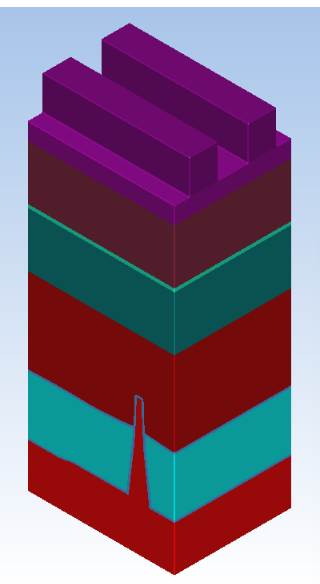
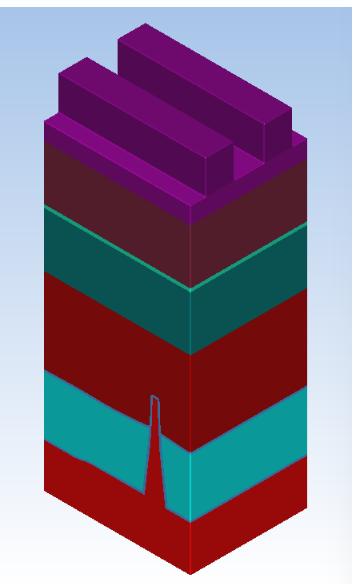
FinFET 3D 그림 좌우 여백 확대

diff --git a/finfet.html b/finfet.html
@@ -7,7 +7,7 @@
 <link rel="stylesheet" href="style.css">
 <style>
 .step{display:flex;gap:18px;align-items:flex-start}
-.step>img{flex:none;width:auto;height:auto;max-width:250px;max-height:400px;border-radius:8px;border:1px solid var(--border);background:#fff}
+.step>img{flex:none;width:auto;height:auto;max-width:270px;max-height:420px;border-radius:8px;border:1px solid var(--border);background:#fff}
 .step>div{flex:1;min-width:0}
 .lay{margin:8px 0 10px}
 .lay img{display:block;width:100%;height:auto;border-radius:6px;border:1px solid var(--border);background:#000}
